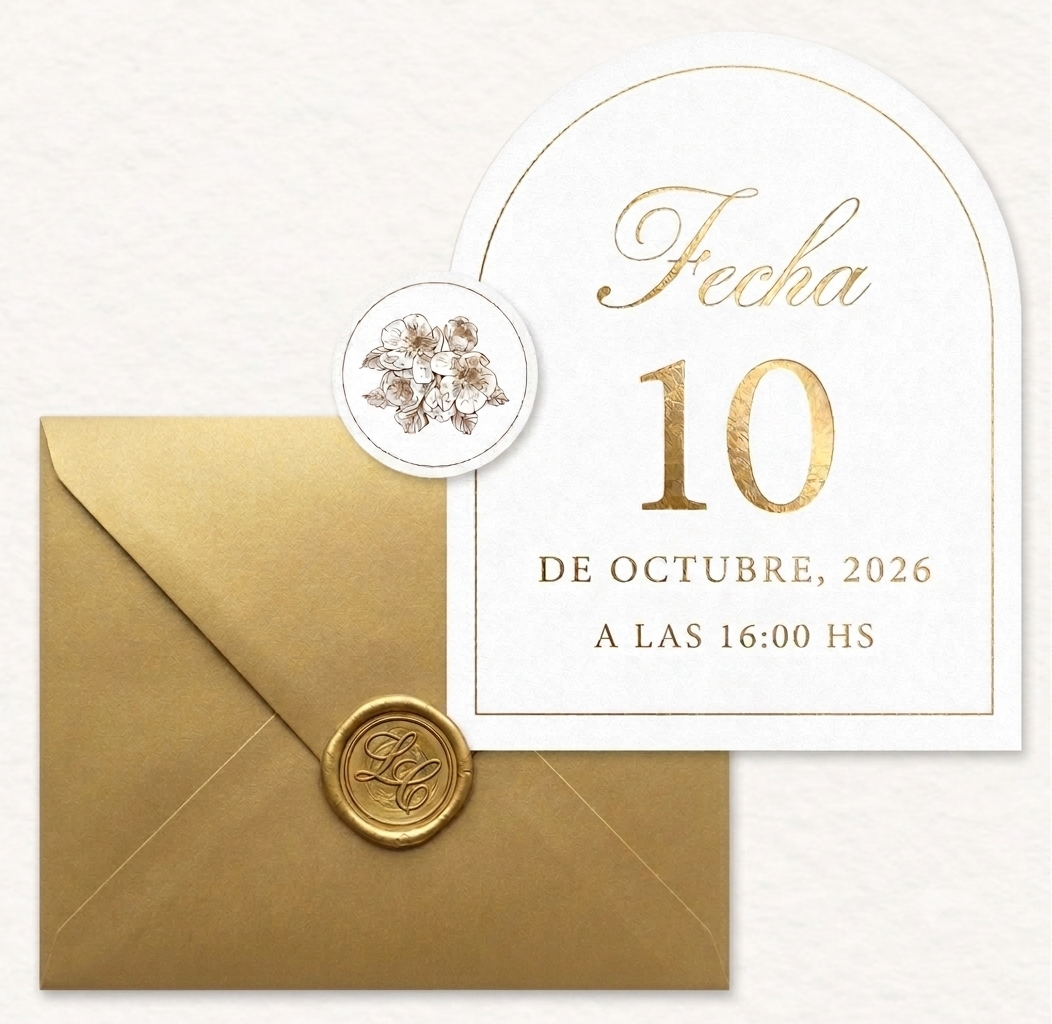
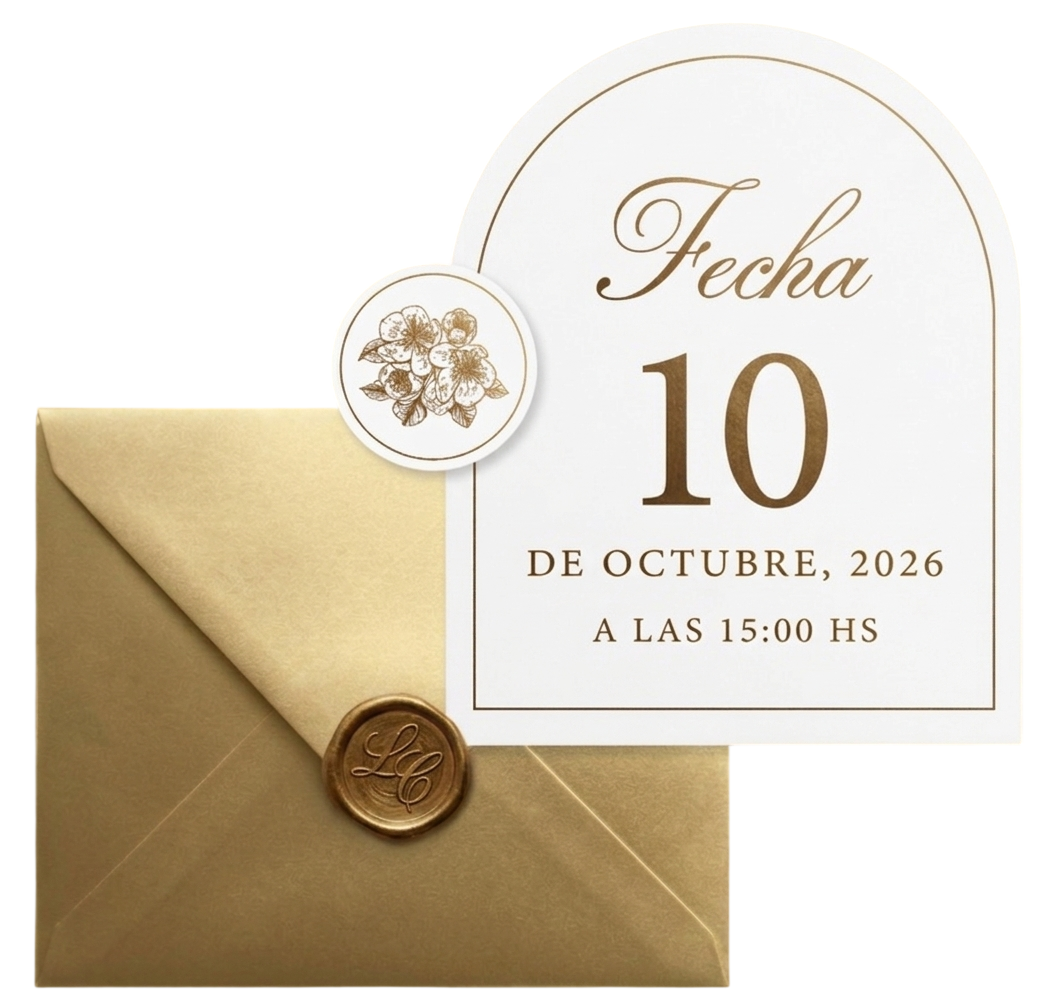
first commitnn

diff --git a/index.html b/index.html
@@ -1931,8 +1931,8 @@
                             data-id="754611f9" data-element_type="widget" data-e-type="widget"
                             data-widget_type="heading.default">
                             <div class="elementor-widget-container">
-                                <h2 class="elementor-heading-title elementor-size-default" style="color: #996515;">17:00
-                                    h</h2>
+                                <h2 class="elementor-heading-title elementor-size-default" style="color: #996515;">15:00
+                                    hs</h2>
                             </div>
                         </div>
                         <div class="elementor-element elementor-element-23687b87 elementor-widget__width-initial elementor-hidden-tablet elementor-hidden-mobile elementor-widget-divider--view-line elementor-widget elementor-widget-divider"
@@ -1960,8 +1960,8 @@
                             data-id="bce40e8" data-element_type="widget" data-e-type="widget"
                             data-widget_type="heading.default">
                             <div class="elementor-widget-container">
-                                <h2 class="elementor-heading-title elementor-size-default" style="color: #996515;">17:15
-                                    h</h2>
+                                <h2 class="elementor-heading-title elementor-size-default" style="color: #996515;">15:50
+                                    hs</h2>
                             </div>
                         </div>
                         <div class="elementor-element elementor-element-6e922bd8 elementor-widget__width-initial elementor-hidden-tablet elementor-hidden-mobile elementor-widget-divider--view-line elementor-widget elementor-widget-divider"
@@ -1989,8 +1989,8 @@
                             data-id="3e0e3419" data-element_type="widget" data-e-type="widget"
                             data-widget_type="heading.default">
                             <div class="elementor-widget-container">
-                                <h2 class="elementor-heading-title elementor-size-default" style="color: #996515;">18:30
-                                    h</h2>
+                                <h2 class="elementor-heading-title elementor-size-default" style="color: #996515;">16:30
+                                    hs</h2>
                             </div>
                         </div>
                         <div class="elementor-element elementor-element-19af7d0f elementor-widget__width-initial elementor-hidden-tablet elementor-hidden-mobile elementor-widget-divider--view-line elementor-widget elementor-widget-divider"
@@ -2018,8 +2018,8 @@
                             data-id="7e806ae6" data-element_type="widget" data-e-type="widget"
                             data-widget_type="heading.default">
                             <div class="elementor-widget-container">
-                                <h2 class="elementor-heading-title elementor-size-default" style="color: #996515;">19:30
-                                    h</h2>
+                                <h2 class="elementor-heading-title elementor-size-default" style="color: #996515;">17:30
+                                    hs</h2>
                             </div>
                         </div>
                         <div class="elementor-element elementor-element-15a3262a elementor-widget__width-initial elementor-hidden-tablet elementor-hidden-mobile elementor-widget-divider--view-line elementor-widget elementor-widget-divider"
@@ -2047,8 +2047,8 @@
                             data-id="1c461719" data-element_type="widget" data-e-type="widget"
                             data-widget_type="heading.default">
                             <div class="elementor-widget-container">
-                                <h2 class="elementor-heading-title elementor-size-default" style="color: #996515;">21:00
-                                    h</h2>
+                                <h2 class="elementor-heading-title elementor-size-default" style="color: #996515;">18:30
+                                    hs</h2>
                             </div>
                         </div>
                         <div class="elementor-element elementor-element-753911ff elementor-widget__width-initial elementor-hidden-tablet elementor-hidden-mobile elementor-widget-divider--view-line elementor-widget elementor-widget-divider"
